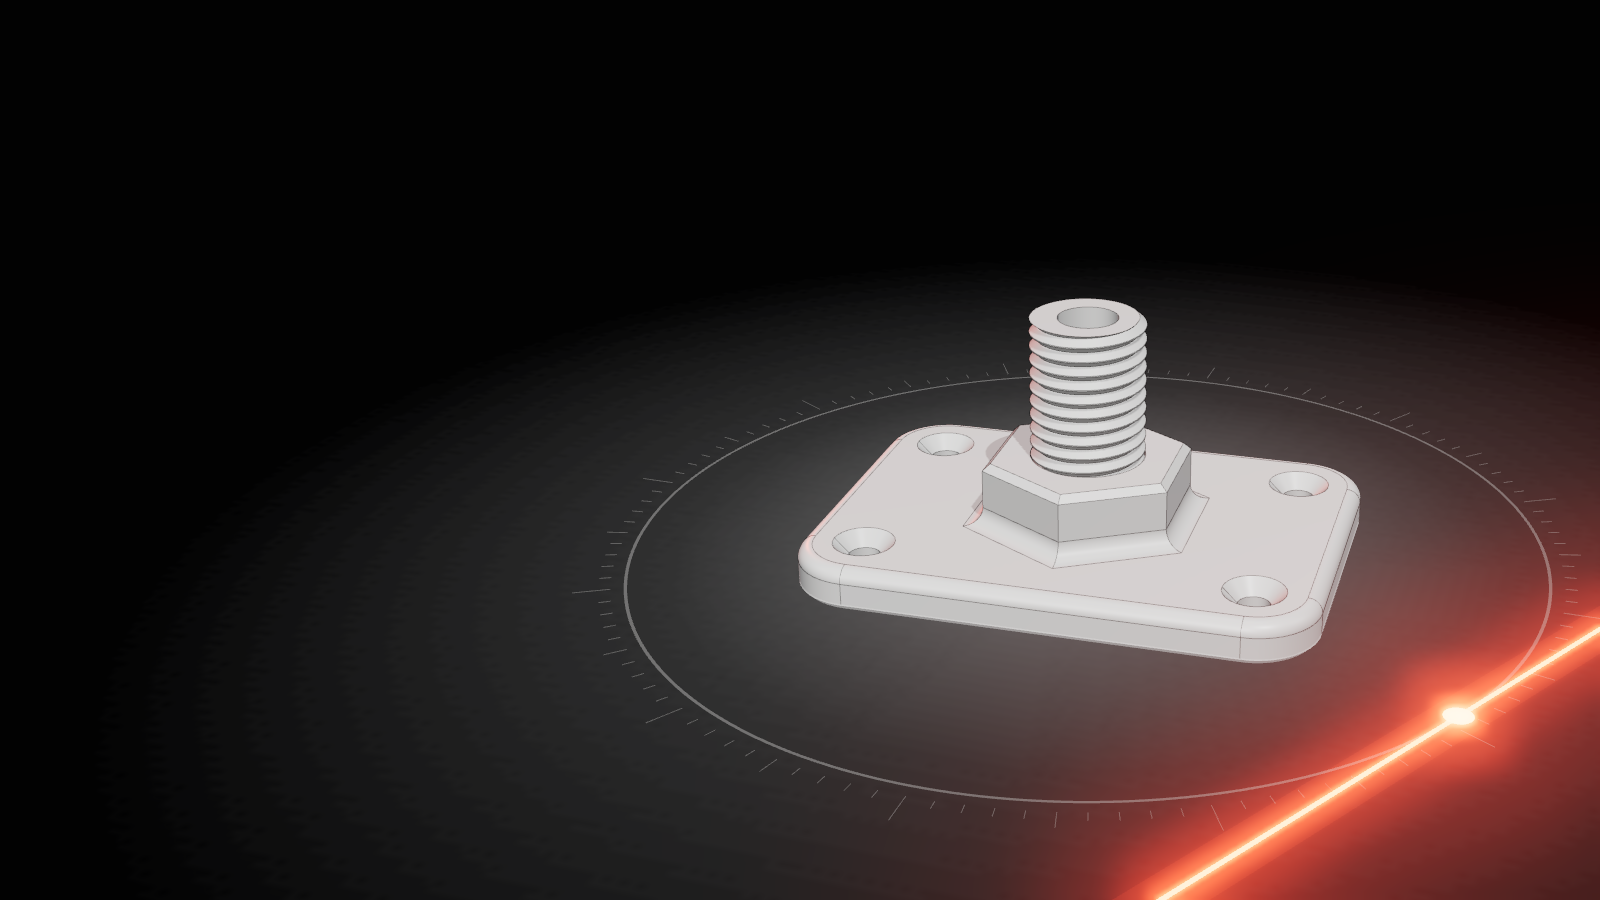
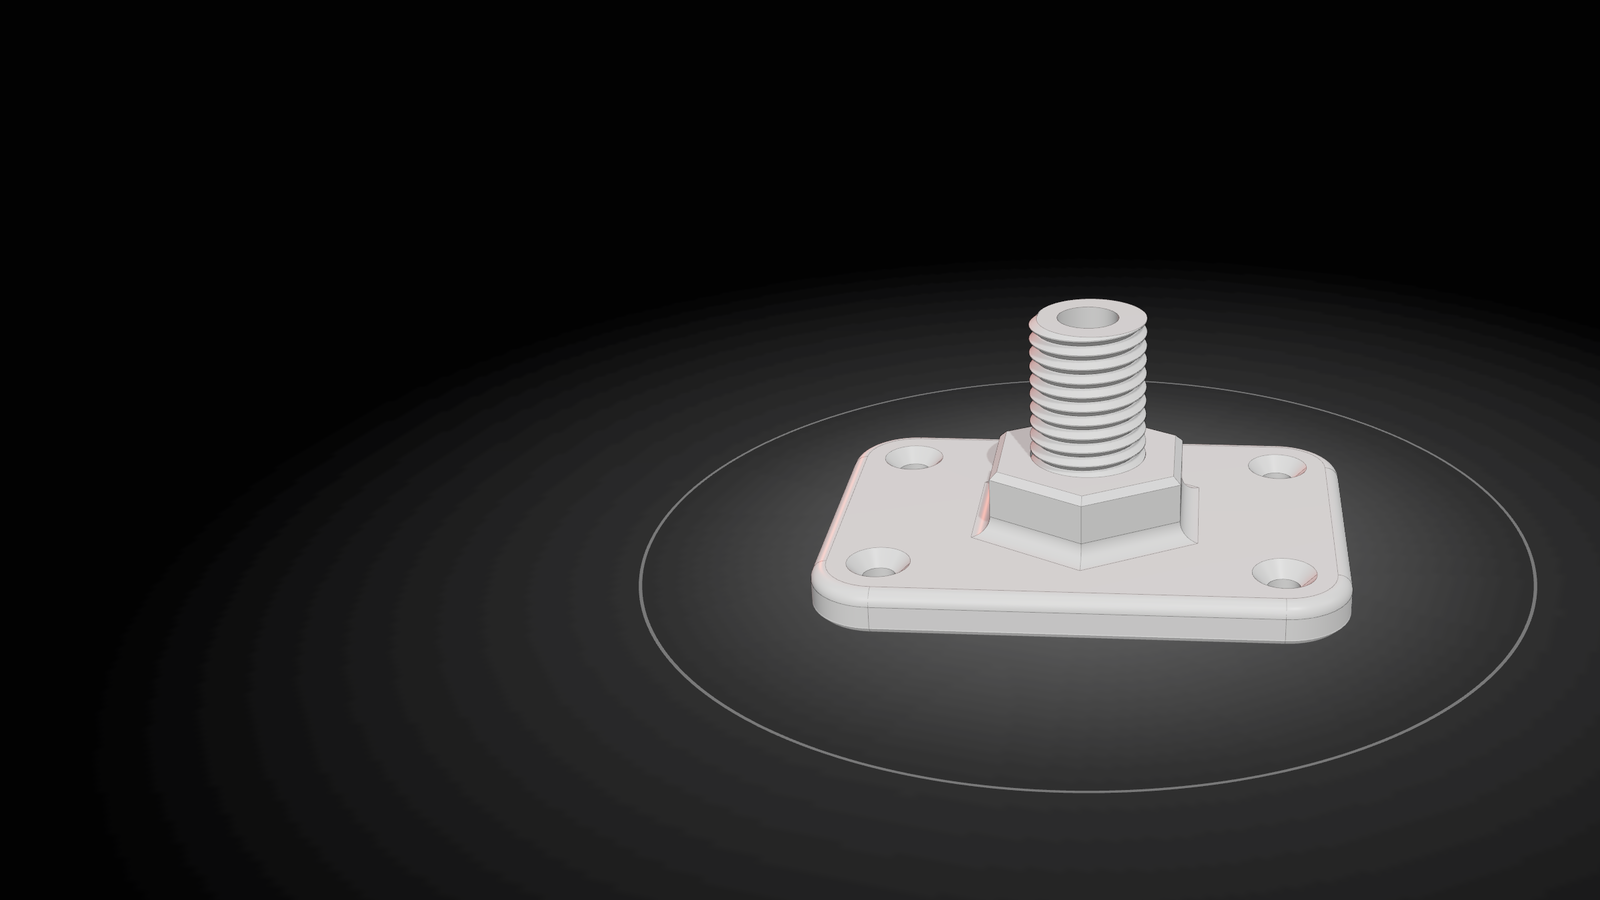
Website without WebGL: current stills, framed per screen, that leave on cue
When WebGL is off or lost, the page showed an old render, still with the
bright tangent line and tick marks, cropped badly on phones, pinned behind
every section down to the download card.

- New stills taken from the live stage: one wide, one framed for phones
  with the part in the top half, as WebP.
- The still fades as the rest of the bench comes up, on the stage's own
  curve, so the sections below stand on plain ground.
- The dimension labels hide while the still shows; they point at the live
  part, and over a picture they would point at air.
- The link-preview image is the new still, by absolute URL.

diff --git a/index.html b/index.html
@@ -8,7 +8,7 @@
   <meta name="theme-color" content="#0E0E0F">
   <meta property="og:title" content="tangent">
   <meta property="og:description" content="Exact 3D modelling for printing.">
-  <meta property="og:image" content="site/model/poster.png">
+  <meta property="og:image" content="https://lukemcrae.com/tangent/site/model/poster.png">
   <link rel="icon" href="assets/icon.svg?v=dev" type="image/svg+xml">
   <link rel="apple-touch-icon" href="assets/icon.png?v=dev">
 
@@ -33,7 +33,13 @@
 <!-- The part, drawn behind everything. It sits beside the hero, then beside
      the features as they scroll past, then fades out. See site/js/stage.js. -->
 <div class="stage" id="stage" aria-hidden="true">
-  <img class="stage-poster" src="site/model/poster.png?v=dev" alt="">
+  <!-- What stands in for the part without WebGL: stills of the same scene,
+       framed for a wide and a narrow screen. -->
+  <picture>
+    <source media="(max-width: 760px)" srcset="site/model/poster-narrow.webp?v=dev" type="image/webp">
+    <source srcset="site/model/poster.webp?v=dev" type="image/webp">
+    <img class="stage-poster" src="site/model/poster.png?v=dev" alt="">
+  </picture>
 </div>
 <svg class="callouts" id="callouts" aria-hidden="true"></svg>
 

diff --git a/site/js/site.js b/site/js/site.js
@@ -57,5 +57,21 @@ if (!stage) {
   stage.classList.add('ready');
 } else {
   import('./stage.js').then(m => m.start(stage, config))
-    .catch(err => { console.warn('stage:', err); stage.classList.add('no-webgl'); });
+    .catch(err => { console.warn('stage:', err); stage.classList.add('no-webgl'); fadeWithPage(stage); });
+}
+
+// Without WebGL the still stands in for the part, and leaves the page where
+// the part would: fading out as the rest of the bench comes up, on the same
+// curve stage.js uses, so the sections below stand on plain ground.
+function fadeWithPage(el) {
+  const more = document.querySelector('.more');
+  if (!more) return;
+  const smooth = x => { x = Math.min(1, Math.max(0, x)); return x * x * (3 - 2 * x); };
+  const fade = () => {
+    const top = more.getBoundingClientRect().top;
+    el.style.opacity = smooth((top - innerHeight * 0.3) / (innerHeight * 0.45));
+  };
+  addEventListener('scroll', fade, { passive: true });
+  addEventListener('resize', fade);
+  fade();
 }

diff --git a/site/css/site.css b/site/css/site.css
@@ -89,6 +89,8 @@ svg { width: 1em; height: 1em; flex: none; }
 .stage.ready .stage-poster { display: none; }
 .stage.lost canvas { visibility: hidden; }
 .stage.ready.lost .stage-poster { display: block; opacity: 1; }
+/* The labels point at the live part; over the still they would point at air. */
+.stage.lost ~ .callouts, .stage.no-webgl ~ .callouts { display: none; }
 .stage video { width: 100%; height: 100%; object-fit: cover; }
 
 /* Dimension callouts, pinned to points on the part. Drawn by stage.js. */
@@ -446,6 +448,8 @@ h2 {
 }
 @media (max-width: 760px) {
   :root { --nav-h: 60px; }
+  /* The narrow still has the part in its top half, as the live stage does. */
+  .stage-poster { object-position: 50% 0; }
   /* The pages stay reachable: a smaller pill, without the Download link the
      button beside it already is. */
   .nav { gap: 12px; }
